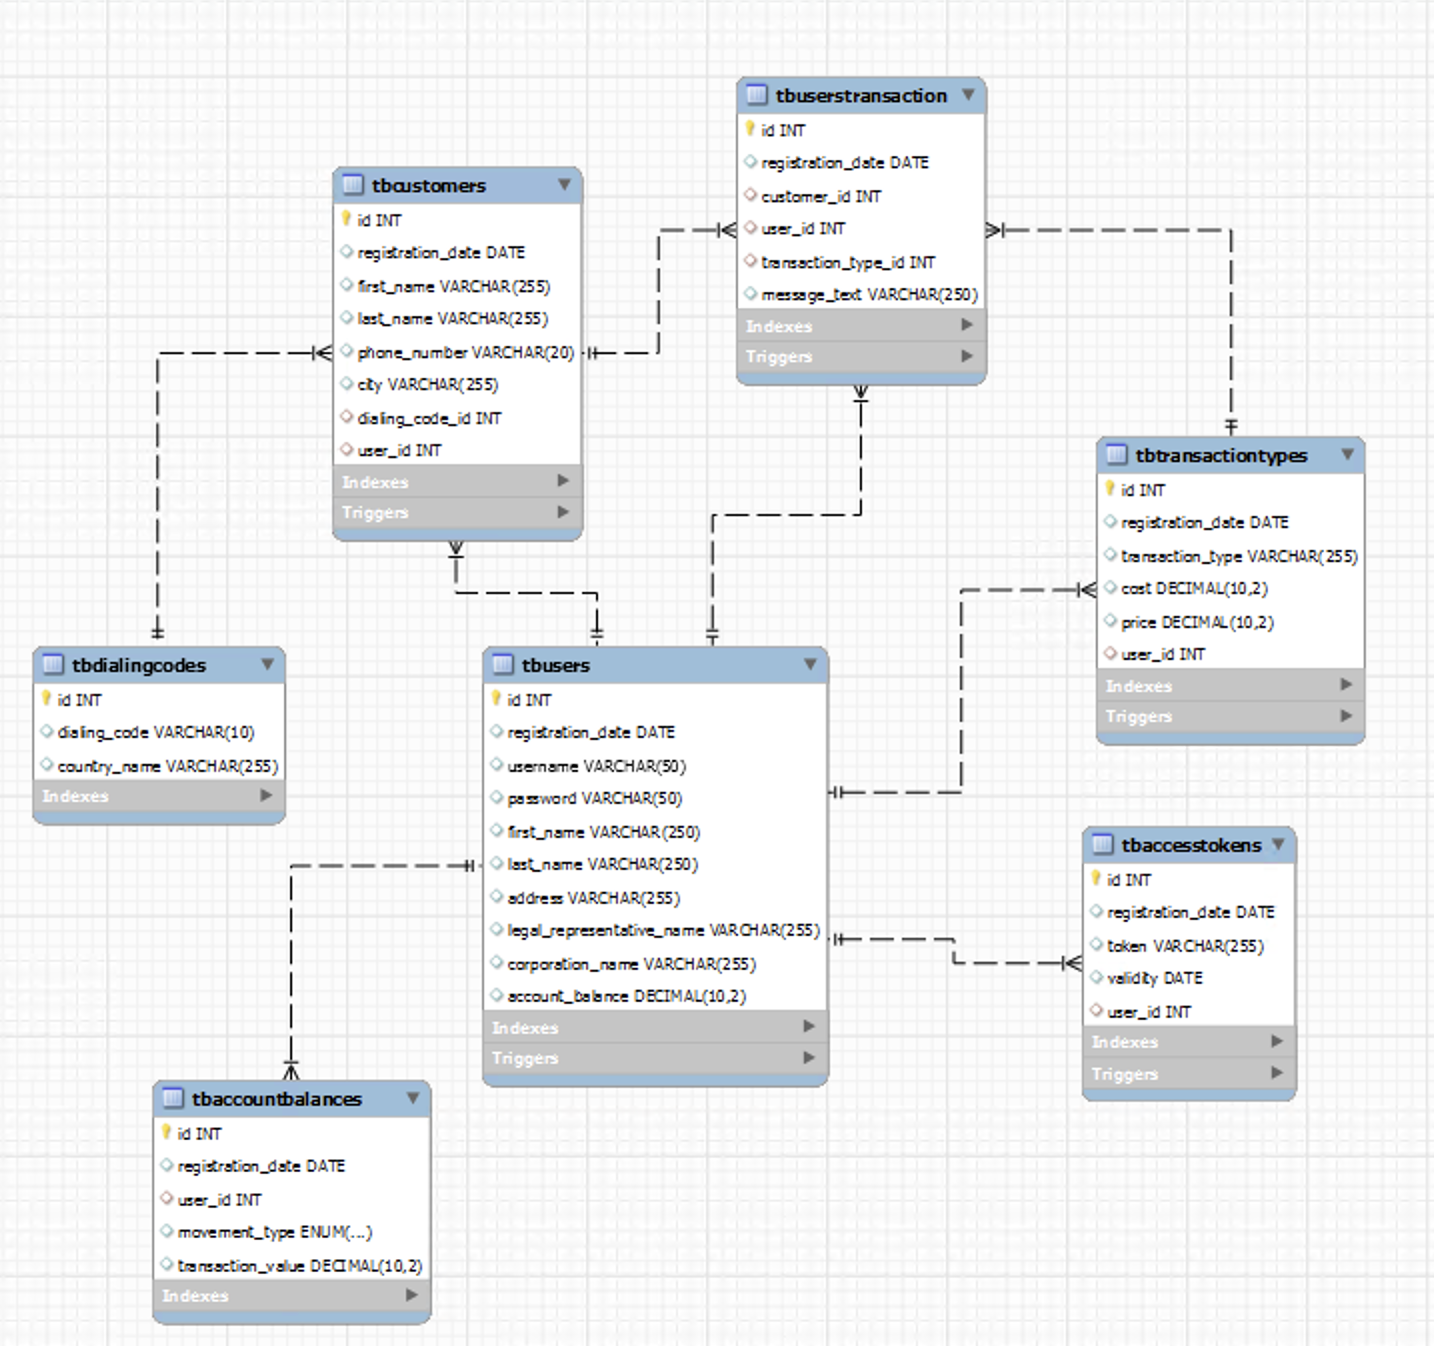
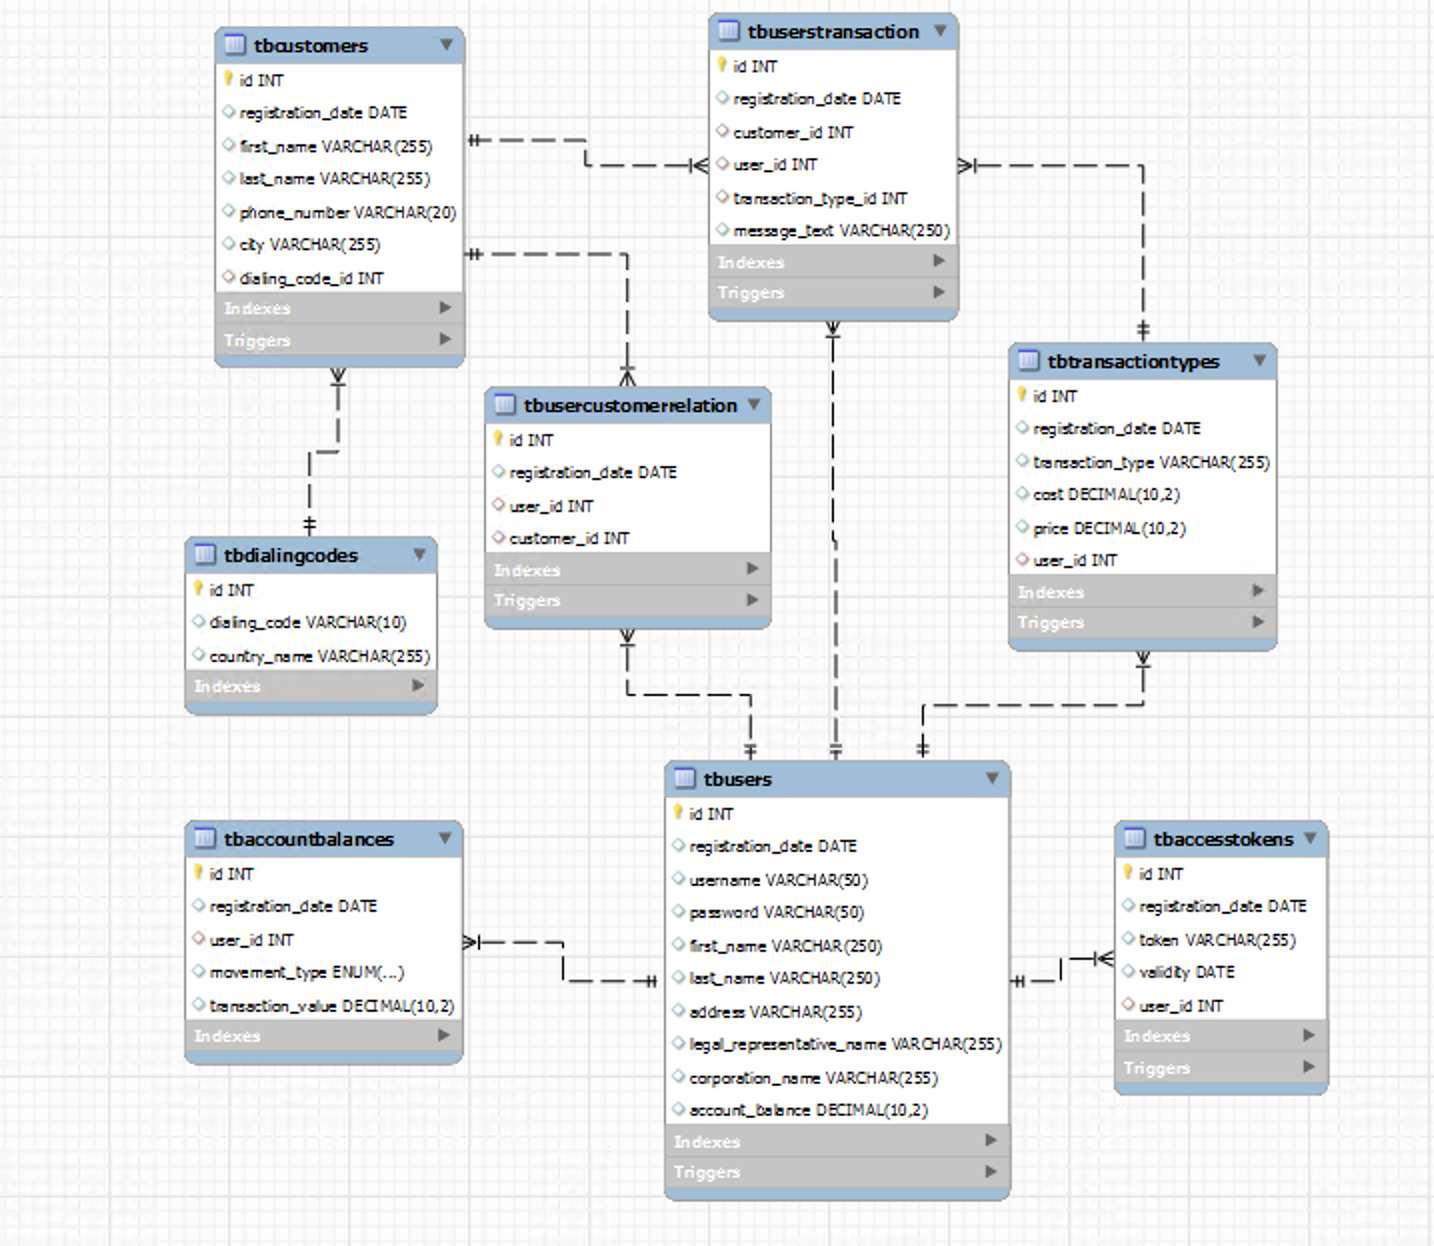
Modelo inicial definitivo

Changed region(s): [[0.0, 0.0, 0.9512, 1.0], [0.675, 0.61, 0.9512, 0.8844], [0.7671, 0.122, 0.8591, 0.183]]

diff --git a/README.md b/README.md
@@ -61,7 +61,6 @@ Este repositorio contiene scripts SQL para gestionar la base de datos de un apli
   - `phone_number` (Número de celular)
   - `city` (Ciudad)
   - `dialing_code_id` (Clave foránea hacia tbDialingCodes)
-  - `user_id` (Clave foránea hacia tbUsers)
 
 ### tbTransactionTypes
 
@@ -94,6 +93,20 @@ Este repositorio contiene scripts SQL para gestionar la base de datos de un apli
   - `user_id` (Clave foránea hacia tbUsers)
   - `movement_type` (Tipo de movimiento: debe o haber)
   - `transaction_value` (Valor de la transacción)
+
+### tbUserCustomerRelation
+
+- **Descripción**: Esta tabla se utiliza para establecer relaciones muchos a muchos entre usuarios y clientes. Registra la fecha de registro de cada relación.
+- **Campos**:
+  - `id` (Clave primaria)
+  - `registration_date` (Fecha de registro)
+  - `user_id` (Clave foránea hacia tbUsers)
+  - `customer_id` (Clave foránea hacia tbCustomers)
+  - `INDEX (id)`
+  - `INDEX (user_id)`
+  - `INDEX (customer_id)`
+  - `INDEX (registration_date)`
+
 
 ## Instrucciones de Uso
 
